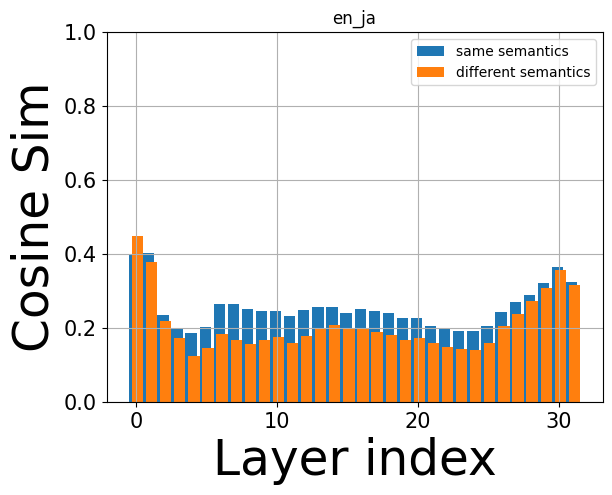
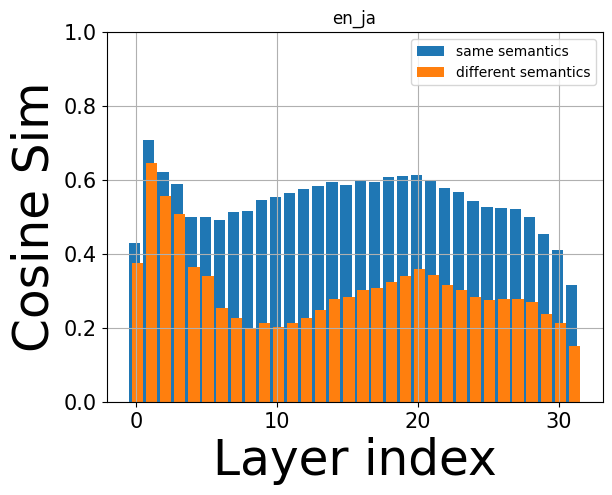
update

Changed region(s): [[0.1863, 0.2727, 0.9624, 0.7273]]

diff --git a/activated_neuron/new_neurons/transfer_neurons/mutual_knn/mknn_funcs.py b/activated_neuron/new_neurons/transfer_neurons/mutual_knn/mknn_funcs.py
@@ -1,0 +1,114 @@
+"""
+some funcs were copied from: https://github.com/minyoungg/platonic-rep/blob/main/metrics.py
+The Platonic Representation Hypothesis: https://arxiv.org/abs/2405.07987
+"""
+
+import sys
+
+from datasets import load_dataset
+import numpy as np
+import torch
+import torch.nn.functional as F
+
+# Extract features from the models (example for embedding layer or first hidden layer)
+def extract_representations(model, tokenizer, text, layer_idx=-1) -> torch.Tensor: # layer_indexで「どの層」のrepresentationsをとるかを指定
+    inputs = tokenizer(text, return_tensors="pt").to(device)
+    with torch.no_grad():
+        outputs = model(**inputs)
+        hidden_states = outputs.hidden_states[1:]
+        representations = hidden_states[layer_idx]
+    # return representations.mean(dim=1)  # Mean-pooling across tokens
+    return F.normalize(representations.mean(dim=1))
+
+def mutual_knn(feats_A, feats_B, topk=5):
+    """
+    Computes the mutual KNN accuracy.
+
+    Args:
+        feats_A: A torch tensor of shape N x feat_dim
+        feats_B: A torch tensor of shape N x feat_dim
+
+    Returns:
+        A float representing the mutual KNN accuracy
+    """
+    knn_A = compute_nearest_neighbors(feats_A, topk)
+    knn_B = compute_nearest_neighbors(feats_B, topk)
+
+    n = knn_A.shape[0]
+    topk = knn_A.shape[1]
+
+    # Create a range tensor for indexing
+    range_tensor = torch.arange(n, device=knn_A.device).unsqueeze(1)
+
+    # Create binary masks for knn_A and knn_B
+    lvm_mask = torch.zeros(n, n, device=knn_A.device)
+    llm_mask = torch.zeros(n, n, device=knn_A.device)
+
+    lvm_mask[range_tensor, knn_A] = 1.0
+    llm_mask[range_tensor, knn_B] = 1.0
+
+    acc = (lvm_mask * llm_mask).sum(dim=1) / topk
+
+    return acc.mean().item()
+
+def compute_nearest_neighbors(feats, topk=5):
+    """
+    Compute the nearest neighbors of feats
+    Args:
+        feats: a torch tensor of shape N x D
+        topk: the number of nearest neighbors to return
+    Returns:
+        knn: a torch tensor of shape N x topk
+    """
+    assert feats.ndim == 2, f"Expected feats to be 2D, got {feats.ndim}"
+    knn = (
+        (feats @ feats.T).fill_diagonal_(-1e8).argsort(dim=1, descending=True)[:, :topk]
+    )
+    return knn
+
+""" """
+# def compute_mutual_knn_acc(
+#     model,
+#     tokenizer,
+#     device,
+#     texts_L1,
+#     texts_L2,
+#     topk
+#     ):
+#     # get representations.
+#     feats_base = extract_representations(model, tokenizer, texts_L1)
+#     feats_L2 = extract_representations(model, tokenizer, texts_L2)
+
+#     return mutual_knn(feats_base, feats_L2, topk)
+
+def knn(model, tokenizer, device, sentences: list, L1: str, L2: str) -> list:
+    # layer_num = model.layer_num
+    layer_num = 32
+    sentences_num = len(sentences)
+    hidden_dim_size = 4096 # dim_size of hidden states.
+    feats_L1 = torch.zeros((layer_num, sentences_num, hidden_dim_size), device=device)
+    feats_L2 = torch.zeros((layer_num, sentences_num, hidden_dim_size), device=device)
+    for txt_idx, (L1_txt, L2_txt) in enumerate(sentences):
+        inputs_L1 = tokenizer(L1_txt, return_tensors='pt').to(device)
+        inputs_L2 = tokenizer(L2_txt, return_tensors='pt').to(device)
+        # run inference.
+        with torch.no_grad():
+            output_L1 = model(**inputs_L1, output_hidden_states=True)
+            output_L2 = model(**inputs_L2, output_hidden_states=True)
+        hs_L1_all_layers = output_L1.hidden_states[1:]
+        hs_L2_all_layers = output_L2.hidden_states[1:]
+        for layer_idx in range(layer_num):
+            hs_L1 = hs_L1_all_layers[layer_idx][:, -1, :].squeeze()
+            hs_L2 = hs_L2_all_layers[layer_idx][:, -1, :].squeeze()
+            feats_L1[layer_idx, txt_idx, :] = hs_L1
+            feats_L2[layer_idx, txt_idx, :] = hs_L2
+        
+    # calc Mutual KNN.
+    knn_scores = [] # [knn_score_layer1, knn_score_layer2, ...]
+    for layer_idx in range(layer_num):
+        feats_L1 = F.normalize(feats_L1, dim=-1) # 原論文はnormalizeしていたので.
+        feats_L2 = F.normalize(feats_L2, dim=-1)
+        knn_score = mutual_knn(feats_L1[layer_idx, :, :], feats_L2[layer_idx, :, :])
+        knn_scores.append(knn_score)
+
+    return knn_scores

diff --git a/activated_neuron/new_neurons/transfer_neurons/aya/take_sim_scores.py b/activated_neuron/new_neurons/transfer_neurons/aya/take_sim_scores.py
@@ -49,8 +49,8 @@ def plot_hist_llama3(dict1: defaultdict(float), dict2: defaultdict(float), L2: s
             path = f"/home/s2410121/proj_LA/activated_neuron/new_neurons/images/transfers/sim/aya/final/{score_type}/en/baseline/{L2}_n{intervention_num}.png"
     elif not is_en:
         if not is_baseline:
-            path = f"/home/s2410121/proj_LA/activated_neuron/new_neurons/images/transfers/sim/aya/final/{score_type}/{L2}_n{intervention_num}.png"
-            # path = f"/home/s2410121/proj_LA/activated_neuron/new_neurons/images/transfers/sim/aya/final/{score_type}/reverse/{L2}_n{intervention_num}.png"
+            # path = f"/home/s2410121/proj_LA/activated_neuron/new_neurons/images/transfers/sim/aya/final/{score_type}/{L2}_n{intervention_num}.png"
+            path = f"/home/s2410121/proj_LA/activated_neuron/new_neurons/images/transfers/sim/aya/final/{score_type}/reverse/{L2}_n{intervention_num}.png"
         elif is_baseline:
             path = f"/home/s2410121/proj_LA/activated_neuron/new_neurons/images/transfers/sim/aya/final/{score_type}/baseline/{L2}_n{intervention_num}.png"
     plt.savefig(
@@ -110,11 +110,11 @@ if __name__ == "__main__":
         # print(len(random_data))
 
         for score_type in score_types:
-            save_path_sorted_neurons = f"/home/s2410121/proj_LA/activated_neuron/new_neurons/pickles/transfer_neurons/aya/final_scores/{score_type}/{L2}_mono_train.pkl"
-            # save_path_sorted_neurons = f"/home/s2410121/proj_LA/activated_neuron/new_neurons/pickles/transfer_neurons/aya/final_scores/reverse/{score_type}/{L2}_sorted_neurons.pkl"
+            # save_path_sorted_neurons = f"/home/s2410121/proj_LA/activated_neuron/new_neurons/pickles/transfer_neurons/aya/final_scores/{score_type}/{L2}_mono_train.pkl"
+            save_path_sorted_neurons = f"/home/s2410121/proj_LA/activated_neuron/new_neurons/pickles/transfer_neurons/aya/final_scores/reverse/{score_type}/{L2}_sorted_neurons.pkl"
             sorted_neurons = unfreeze_pickle(save_path_sorted_neurons)
-            sorted_neurons = [neuron for neuron in sorted_neurons if neuron[0] in [ _ for _ in range(0, 20)]]
-            # sorted_neurons = [neuron for neuron in sorted_neurons if neuron[0] in [ _ for _ in range(20, 32)]]
+            # sorted_neurons = [neuron for neuron in sorted_neurons if neuron[0] in [ _ for _ in range(0, 20)]]
+            sorted_neurons = [neuron for neuron in sorted_neurons if neuron[0] in [ _ for _ in range(20, 32)]]
             # print(sorted_neurons)
 
             # sys.exit()

diff --git a/activated_neuron/new_neurons/transfer_neurons/mutual_knn/calc_mutual_knn.py b/activated_neuron/new_neurons/transfer_neurons/mutual_knn/calc_mutual_knn.py
@@ -1,0 +1,46 @@
+import os
+import sys
+sys.path.append(os.path.abspath(os.path.join(os.path.dirname(__file__), "..")))
+import pickle
+import random
+
+import numpy as np
+import torch
+from datasets import load_dataset
+from transformers import AutoTokenizer, AutoModelForCausalLM
+
+from mknn_funcs import (
+    # extract_representations,
+    # compute_mutual_knn_acc,
+    knn,
+)
+from funcs import (
+    save_as_pickle,
+    unfreeze_pickle,
+    unfreeze_np_arrays,
+)
+
+model_names = ['meta-llama/Meta-Llama-3-8B', 'mistralai/Mistral-7B-v0.3', 'CohereForAI/aya-expanse-8b']
+device = torch.device('cuda' if torch.cuda.is_available() else 'cpu')
+langs = ['ja', 'nl', 'ko', 'it']
+L1 = 'en'
+
+for model_name in model_names:
+    model = AutoModelForCausalLM.from_pretrained(model_name).to(device)
+    tokenizer = AutoTokenizer.from_pretrained(model_name)
+    model_type = 'llama3' if 'llama' in model_name else 'mistral' if 'mistral' in model_name else 'aya'
+    knn_scores = {}
+    for L2 in langs:
+        path = f'/home/s2410121/proj_LA/activated_neuron/new_neurons/pickles/transfer_neurons/sentence_data/{L2}_multi_train.pkl'
+        sentences = unfreeze_pickle(path)
+        res = knn(model, tokenizer, device, sentences, L1, L2) # res: [knn_score_layer1, knn_score_layer2, ...]
+        print(f'=================={model_type}, {L2}==================')
+        print(res)
+        knn_scores[L2] = res
+    
+    path = f'/home/s2410121/proj_LA/activated_neuron/new_neurons/pickles/transfer_neurons/{model_type}/knn/res_all_langs.pkl'
+    save_as_pickle(path, knn_scores)
+
+    # clear cache.
+    del model
+    torch.cuda.empty_cache()

diff --git a/activated_neuron/new_neurons/transfer_neurons/qa/qa_funcs.py b/activated_neuron/new_neurons/transfer_neurons/qa/qa_funcs.py
@@ -172,7 +172,7 @@ def get_f1_above_th_questions(model, tokenizer, device, qa, lang_list: list, qa_
                 output = model.generate(**inputs, max_new_tokens=5, pad_token_id=tokenizer.eos_token_id)
             pre = tokenizer.decode(output[0], skip_special_tokens=True)
             # 
-            if L2 == 'ja': pre = pre.split("答え: ")[-1].strip()
+            if L2 == 'ja': pre = pre.split('答え: ')[-1].strip()
             if L2 == 'nl': pre = pre.split('Antwoord: ')[-1].strip()
             if L2 == 'ko': pre = pre.split('답변: ')[-1].strip()
             if L2 == 'it': pre = pre.split('Risposta: ')[-1].strip()
@@ -257,7 +257,7 @@ def mkqa(model, tokenizer, device, qa, L2: str, qa_num: int, qa_dict: dict):
     
     return np.mean(np.array(f1_scores))
 
-def mkqa_all(model, tokenizer, device, qa, L2: str, qa_dict: dict):
+def mkqa_all(model, tokenizer, device, qa, L2: str):
     # c = 0 # question counter.
     f1_scores = []
     for i in range(len(qa['queries'])):

diff --git a/measure_representations/mutual_knn_acc_funcs.py b/measure_representations/mutual_knn_acc_funcs.py
@@ -12,10 +12,8 @@ def extract_representations(model, tokenizer, texts, layer_idx=-1) -> torch.Tens
     tokens = tokenizer(texts, padding=True, truncation=True, return_tensors="pt")
     with torch.no_grad():
         outputs = model(**tokens)
-        hidden_states = outputs.hidden_states  # List of layer-wise hidden states
-        print(hidden_states)
-        representations = hidden_states[layer_idx]  # Extract the chosen layer
-        print(representations)
+        hidden_states = outputs.hidden_states[1:]
+        representations = hidden_states[layer_idx]
     # return representations.mean(dim=1)  # Mean-pooling across tokens
     return F.normalize(representations.mean(dim=1))
 

diff --git a/activated_neuron/new_neurons/transfer_neurons/qa/mkqa.py b/activated_neuron/new_neurons/transfer_neurons/qa/mkqa.py
@@ -21,6 +21,11 @@ from qa_funcs import (
     save_as_pickle,
     unfreeze_pickle,
 )
+# p = '/home/s2410121/proj_LA/activated_neuron/new_neurons/pickles/transfer_neurons/qa/aya_qa_indices_above_0.5_all_langs.pkl'
+# d = unfreeze_pickle(p)
+# for k, v in d.items():
+#     print(k, len(v))
+# sys.exit()
 
 # load models (LLaMA3-8B).
 model_names = ['meta-llama/Meta-Llama-3-8B', 'mistralai/Mistral-7B-v0.3', 'CohereForAI/aya-expanse-8b']

diff --git a/activated_neuron/new_neurons/transfer_neurons/qa/mkqa_all_questions.py b/activated_neuron/new_neurons/transfer_neurons/qa/mkqa_all_questions.py
@@ -46,7 +46,7 @@ for model_name in model_names:
 
     for L2 in langs:
         # normal
-        result_scores = mkqa_all(model, tokenizer, device, qa, L2, qa_dict)
+        result_scores = mkqa_all(model, tokenizer, device, qa, L2)
         results[L2] = result_scores
 
         """ intervention """
